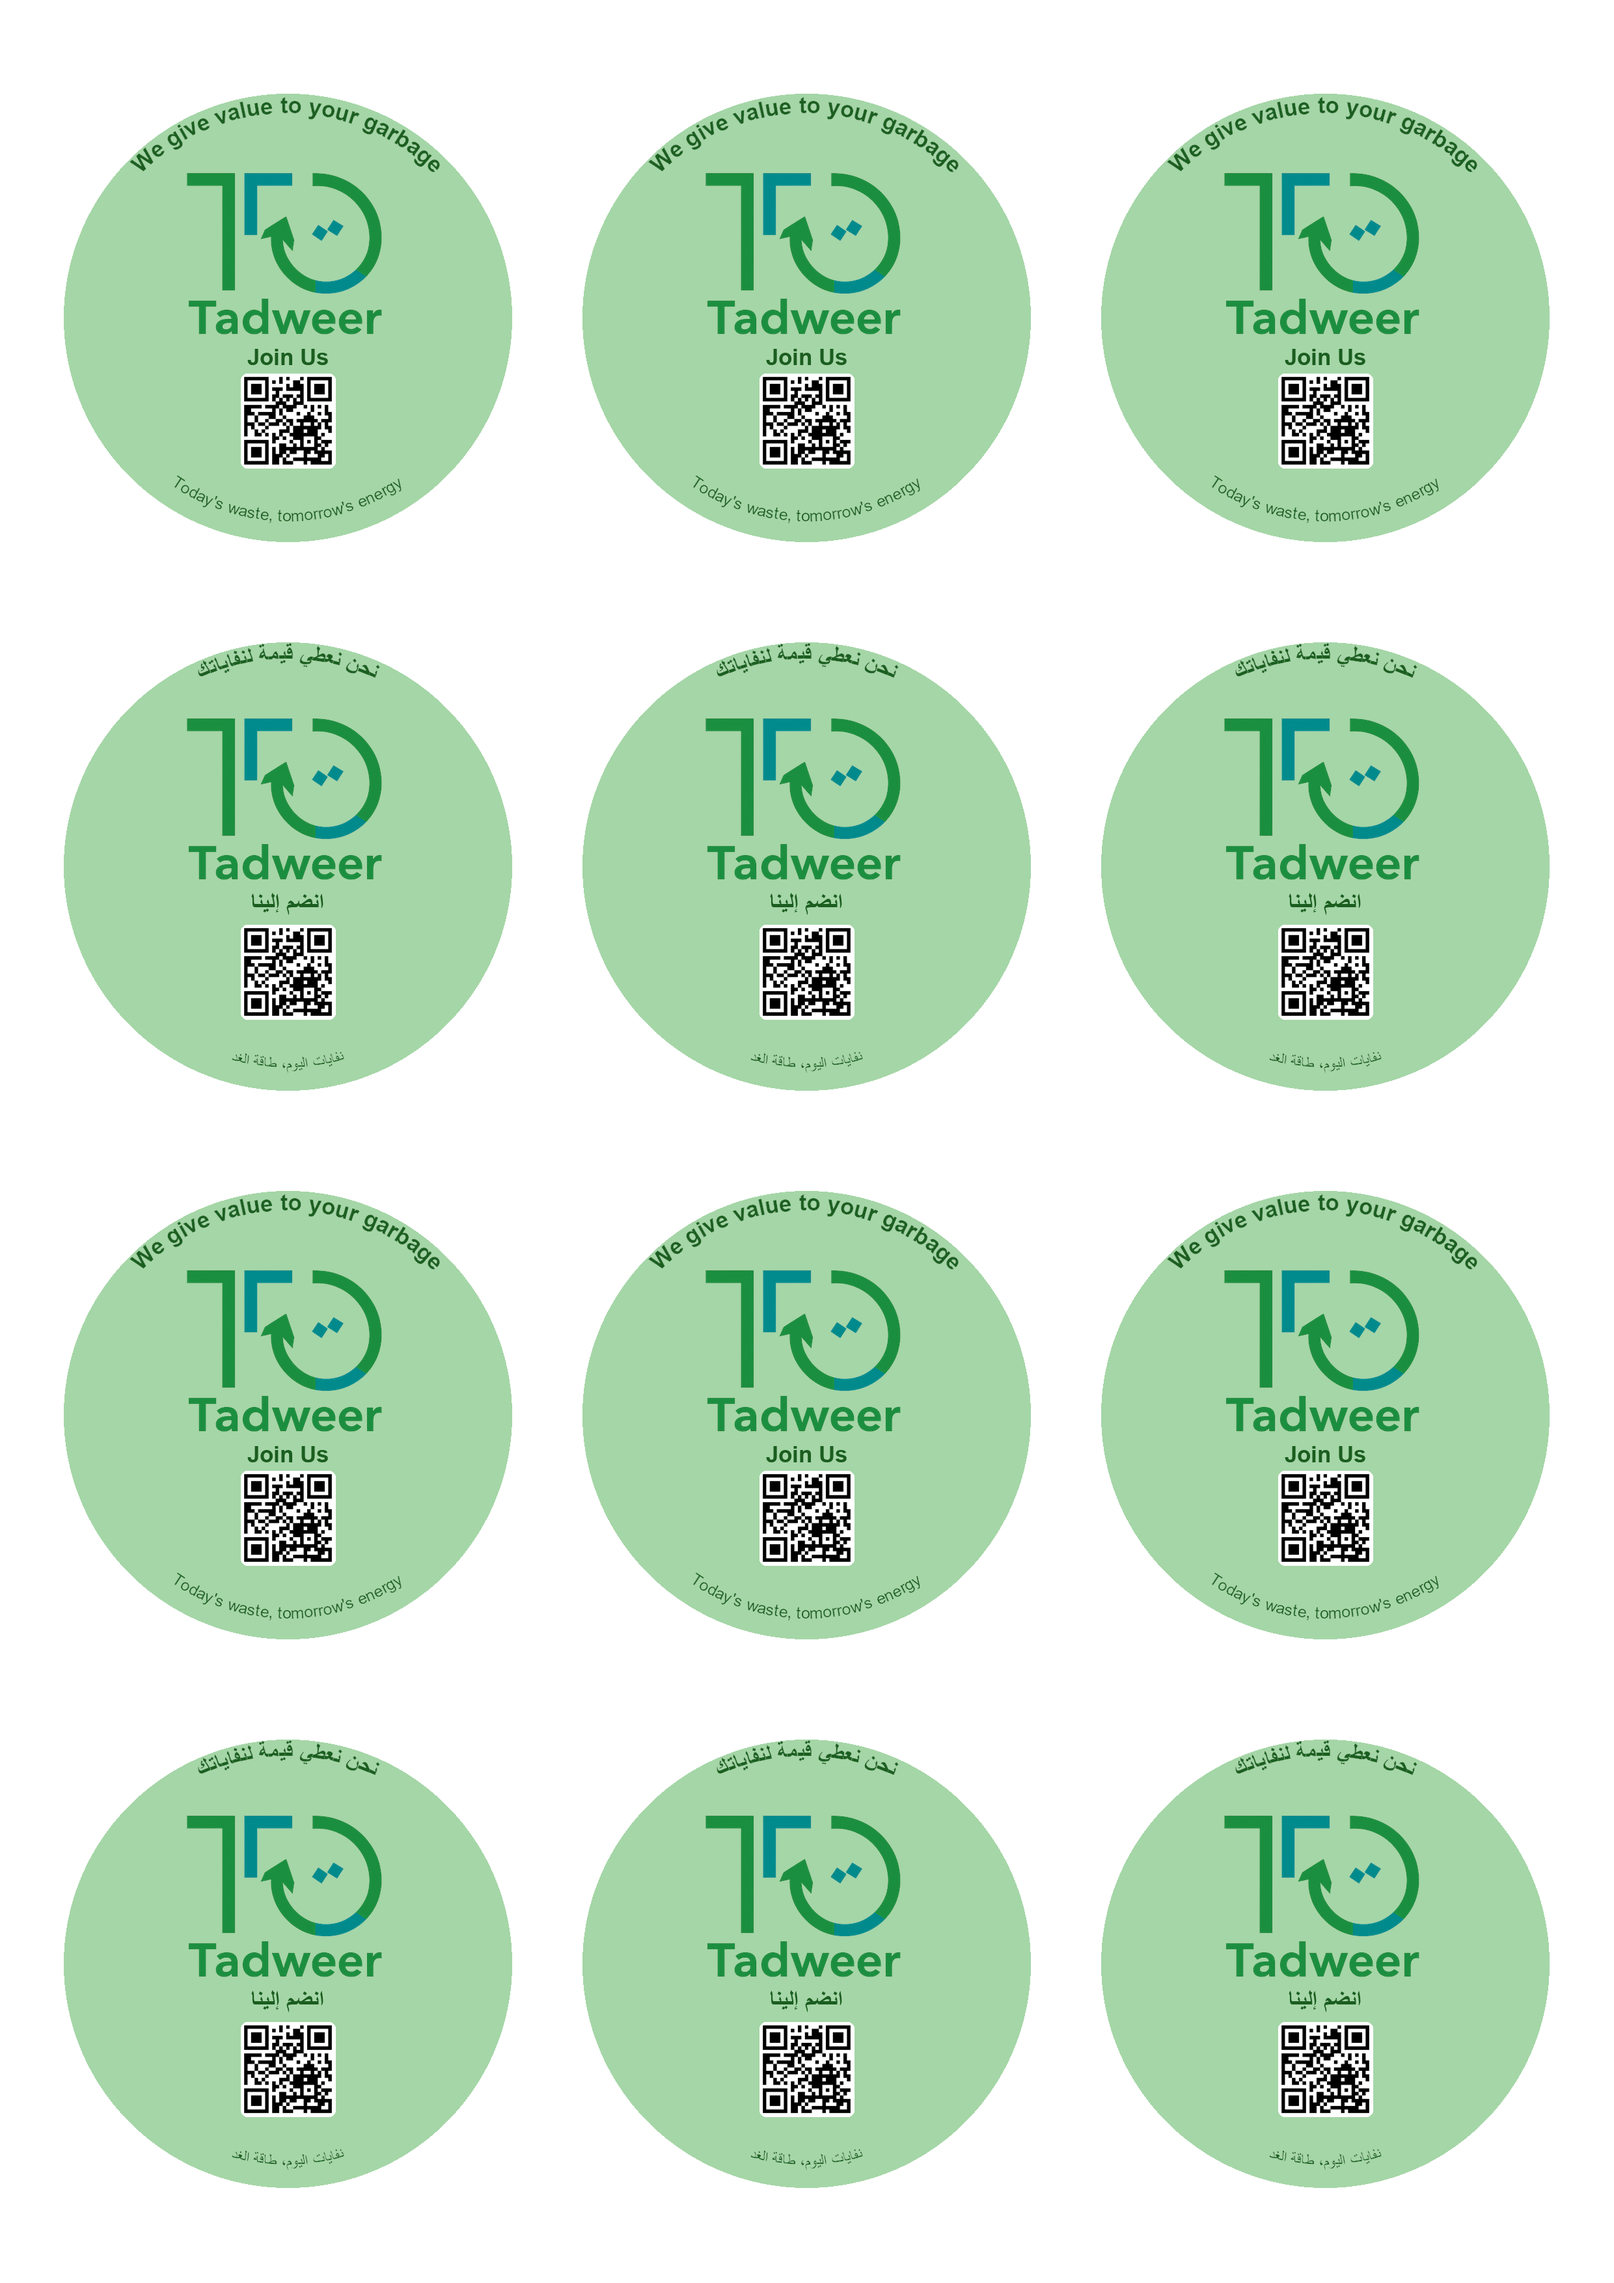
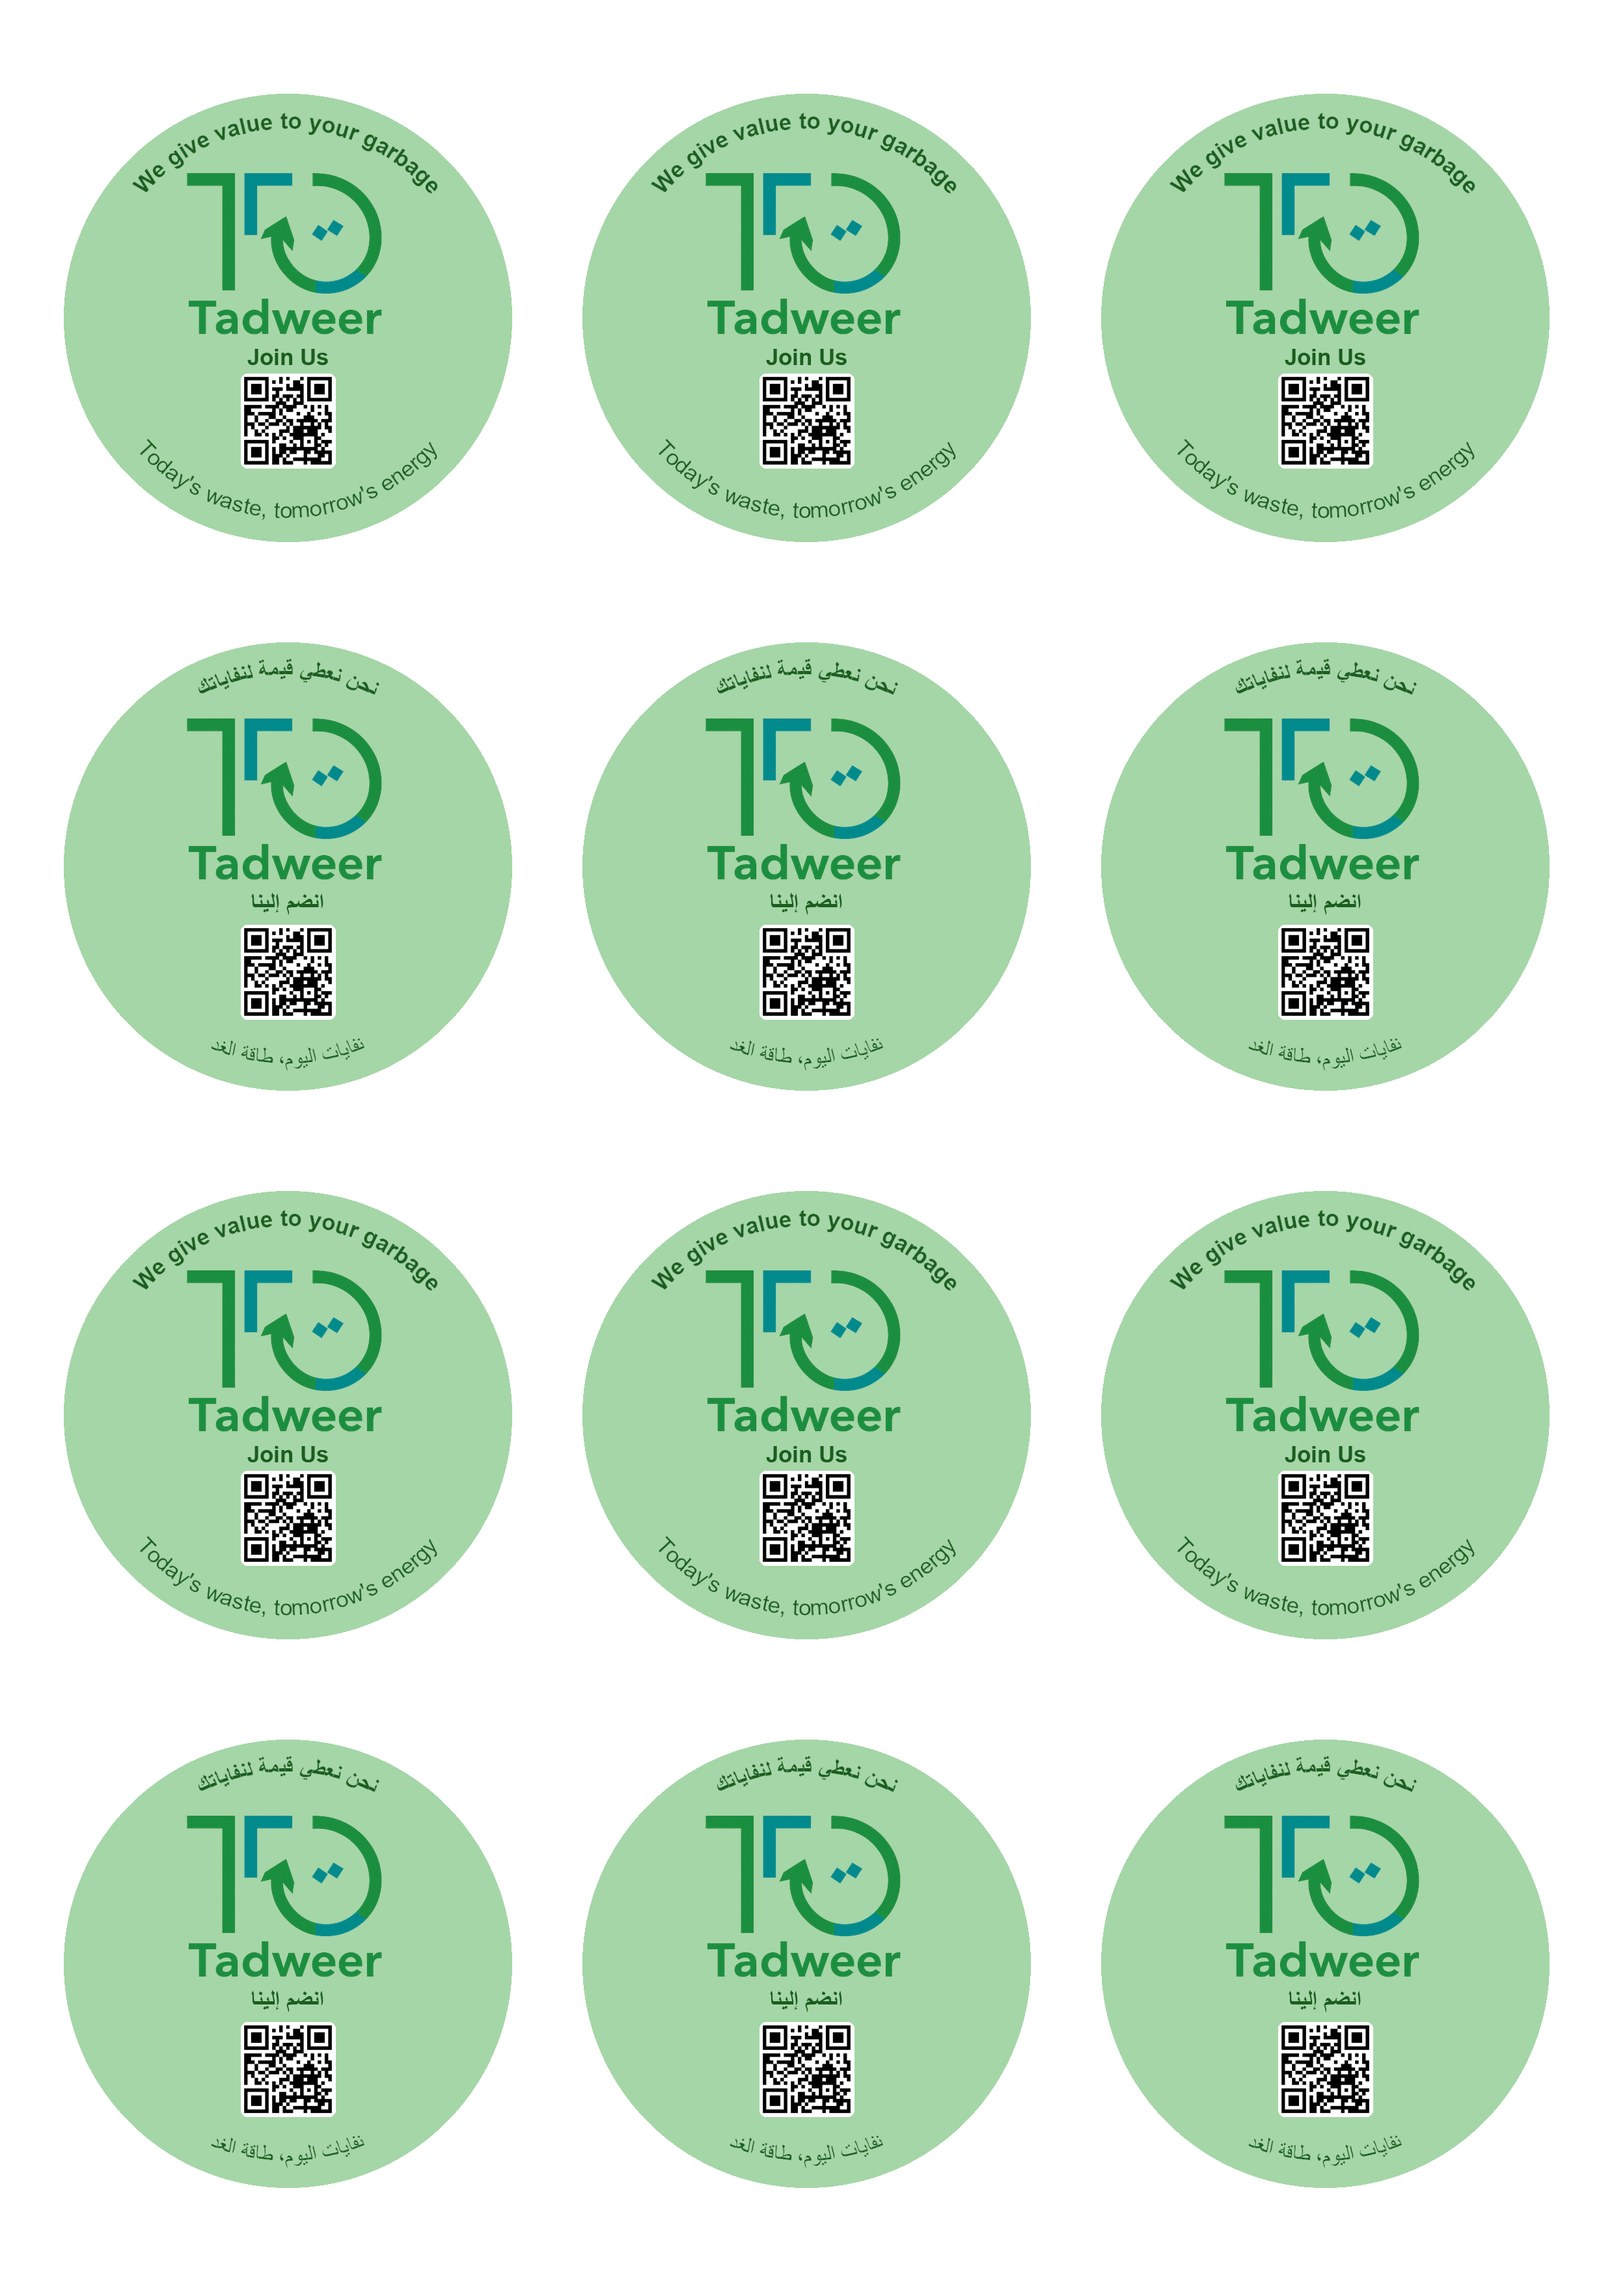
Adjust sticker text positioning: lower top line, enlarge bottom line

diff --git a/tools/generate_sticker.py b/tools/generate_sticker.py
@@ -45,7 +45,7 @@ try:
     # Adjusted sizes for 709px (6cm)
     font_join = ImageFont.truetype("arialbd.ttf", 35)
     font_slogan = ImageFont.truetype("arialbd.ttf", 35) # Slightly larger for curve
-    font_tagline = ImageFont.truetype("arial.ttf", 25)
+    font_tagline = ImageFont.truetype("arial.ttf", 35) # Increased from 25
 except:
     # Fallback
     font_join = ImageFont.load_default()
@@ -82,13 +82,14 @@ qr_bg_size = qr_size + (qr_bg_padding * 2)
 
 # Draw Curved Text
 # Radius for text: slightly less than circle radius
-text_radius = circle_radius - 30 # Move text outwards to create more space
+text_radius_top = circle_radius - 55 # Move top text lower (inwards)
+text_radius_bottom = circle_radius - 35
 
 # Top: Slogan
-draw_text_on_arc(img, SLOGAN, font_slogan, center, text_radius, 270, TEXT_COLOR, is_bottom=False)
+draw_text_on_arc(img, SLOGAN, font_slogan, center, text_radius_top, 270, TEXT_COLOR, is_bottom=False)
 
 # Bottom: Tagline
-draw_text_on_arc(img, TAGLINE, font_tagline, center, text_radius, 90, TEXT_COLOR, is_bottom=True)
+draw_text_on_arc(img, TAGLINE, font_tagline, center, text_radius_bottom, 90, TEXT_COLOR, is_bottom=True)
 
 # Calculate Vertical Layout for Center Content
 # Stack: Logo -> Gap -> Join Us -> Gap -> QR

diff --git a/tools/generate_sticker_ar.py b/tools/generate_sticker_ar.py
@@ -59,7 +59,7 @@ try:
     # Adjusted sizes for 709px (6cm)
     font_join = ImageFont.truetype("arialbd.ttf", 35)
     font_slogan = ImageFont.truetype("arialbd.ttf", 35)
-    font_tagline = ImageFont.truetype("arial.ttf", 25)
+    font_tagline = ImageFont.truetype("arial.ttf", 35) # Increased from 25
 except:
     # Fallback
     font_join = ImageFont.load_default()
@@ -96,13 +96,14 @@ qr_bg_size = qr_size + (qr_bg_padding * 2)
 
 # Draw Curved Text
 # Radius for text: slightly less than circle radius
-text_radius = circle_radius - 30 # Move text outwards to create more space
+text_radius_top = circle_radius - 55 # Move top text lower (inwards)
+text_radius_bottom = circle_radius - 35
 
 # Top: Slogan
-draw_text_on_arc(img, SLOGAN, font_slogan, center, text_radius, 270, TEXT_COLOR, is_bottom=False)
+draw_text_on_arc(img, SLOGAN, font_slogan, center, text_radius_top, 270, TEXT_COLOR, is_bottom=False)
 
 # Bottom: Tagline
-draw_text_on_arc(img, TAGLINE, font_tagline, center, text_radius, 90, TEXT_COLOR, is_bottom=True)
+draw_text_on_arc(img, TAGLINE, font_tagline, center, text_radius_bottom, 90, TEXT_COLOR, is_bottom=True)
 
 # Calculate Vertical Layout for Center Content
 # Stack: Logo -> Gap -> Join Us -> Gap -> QR
